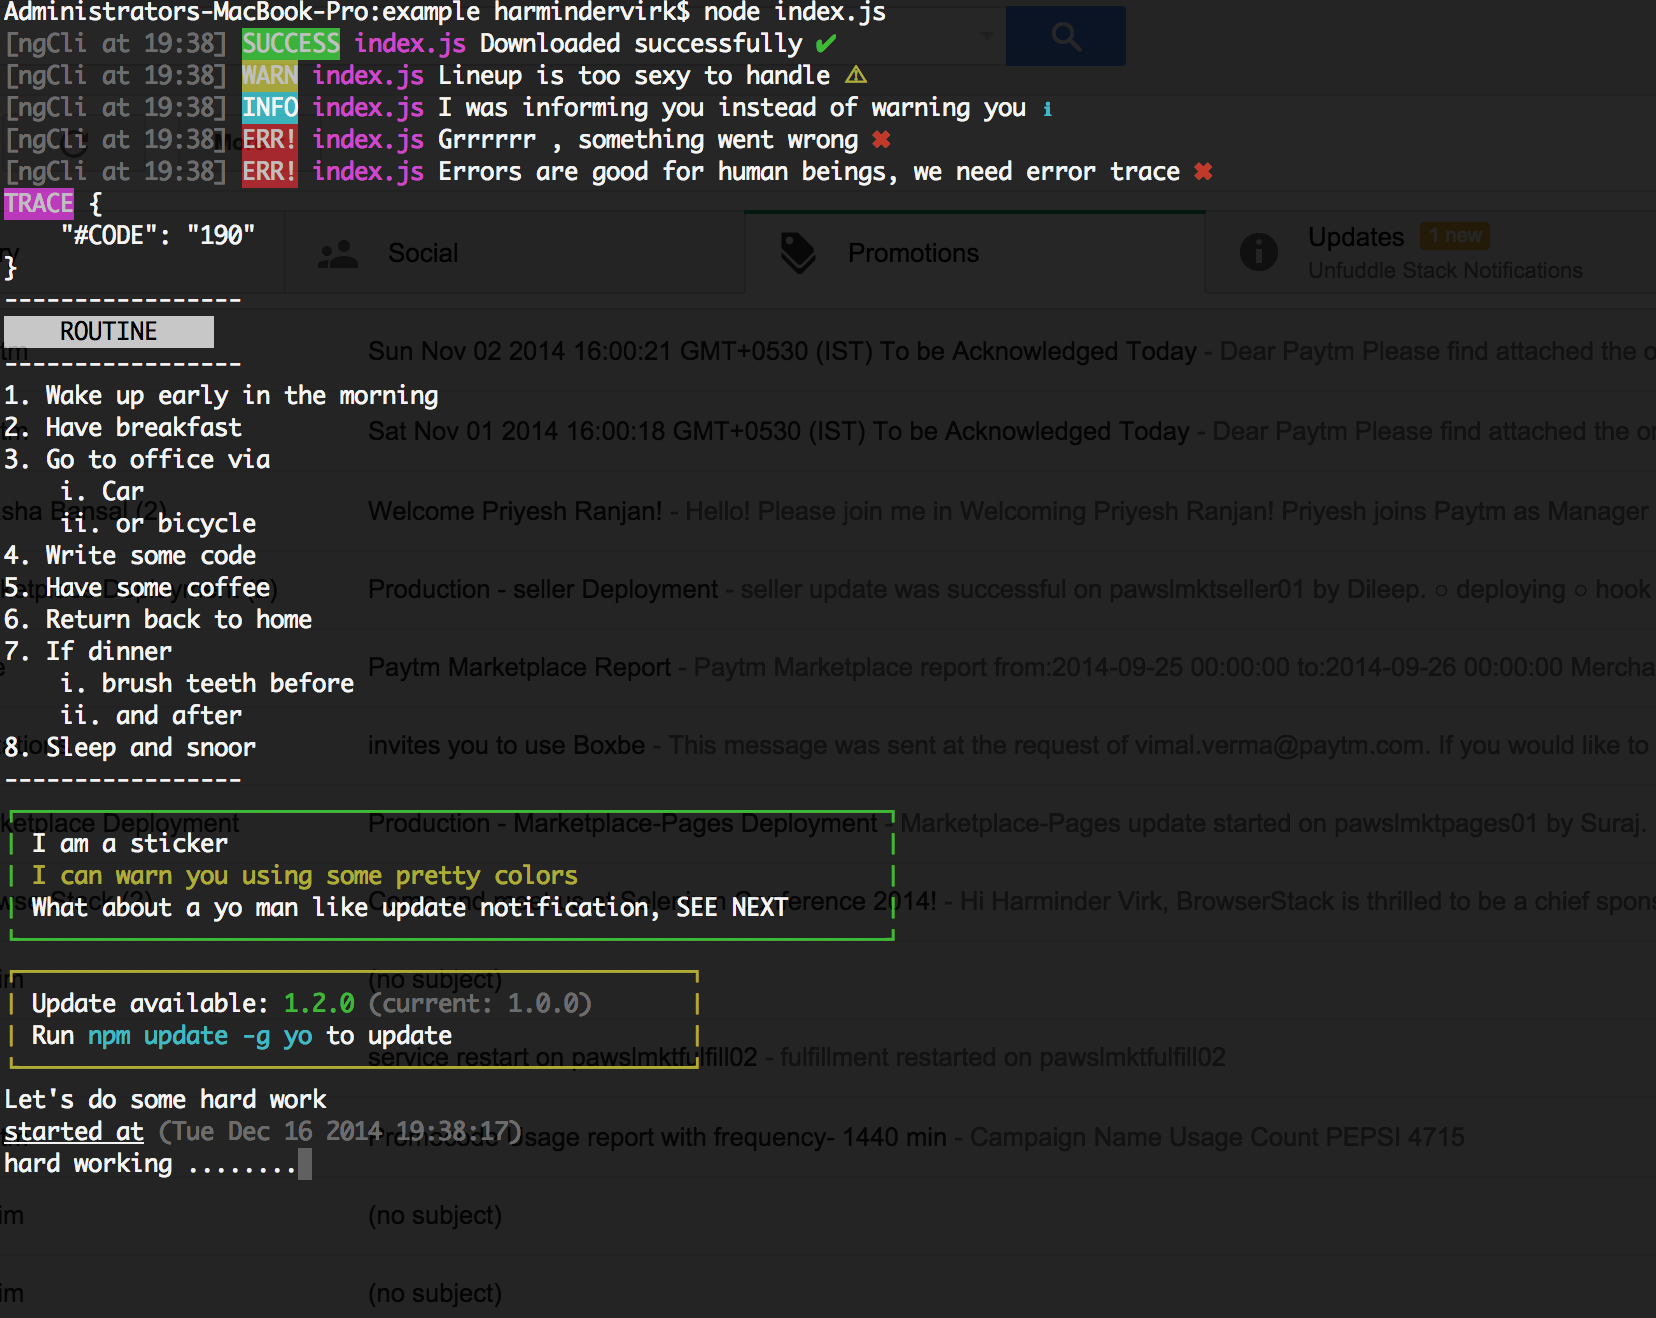
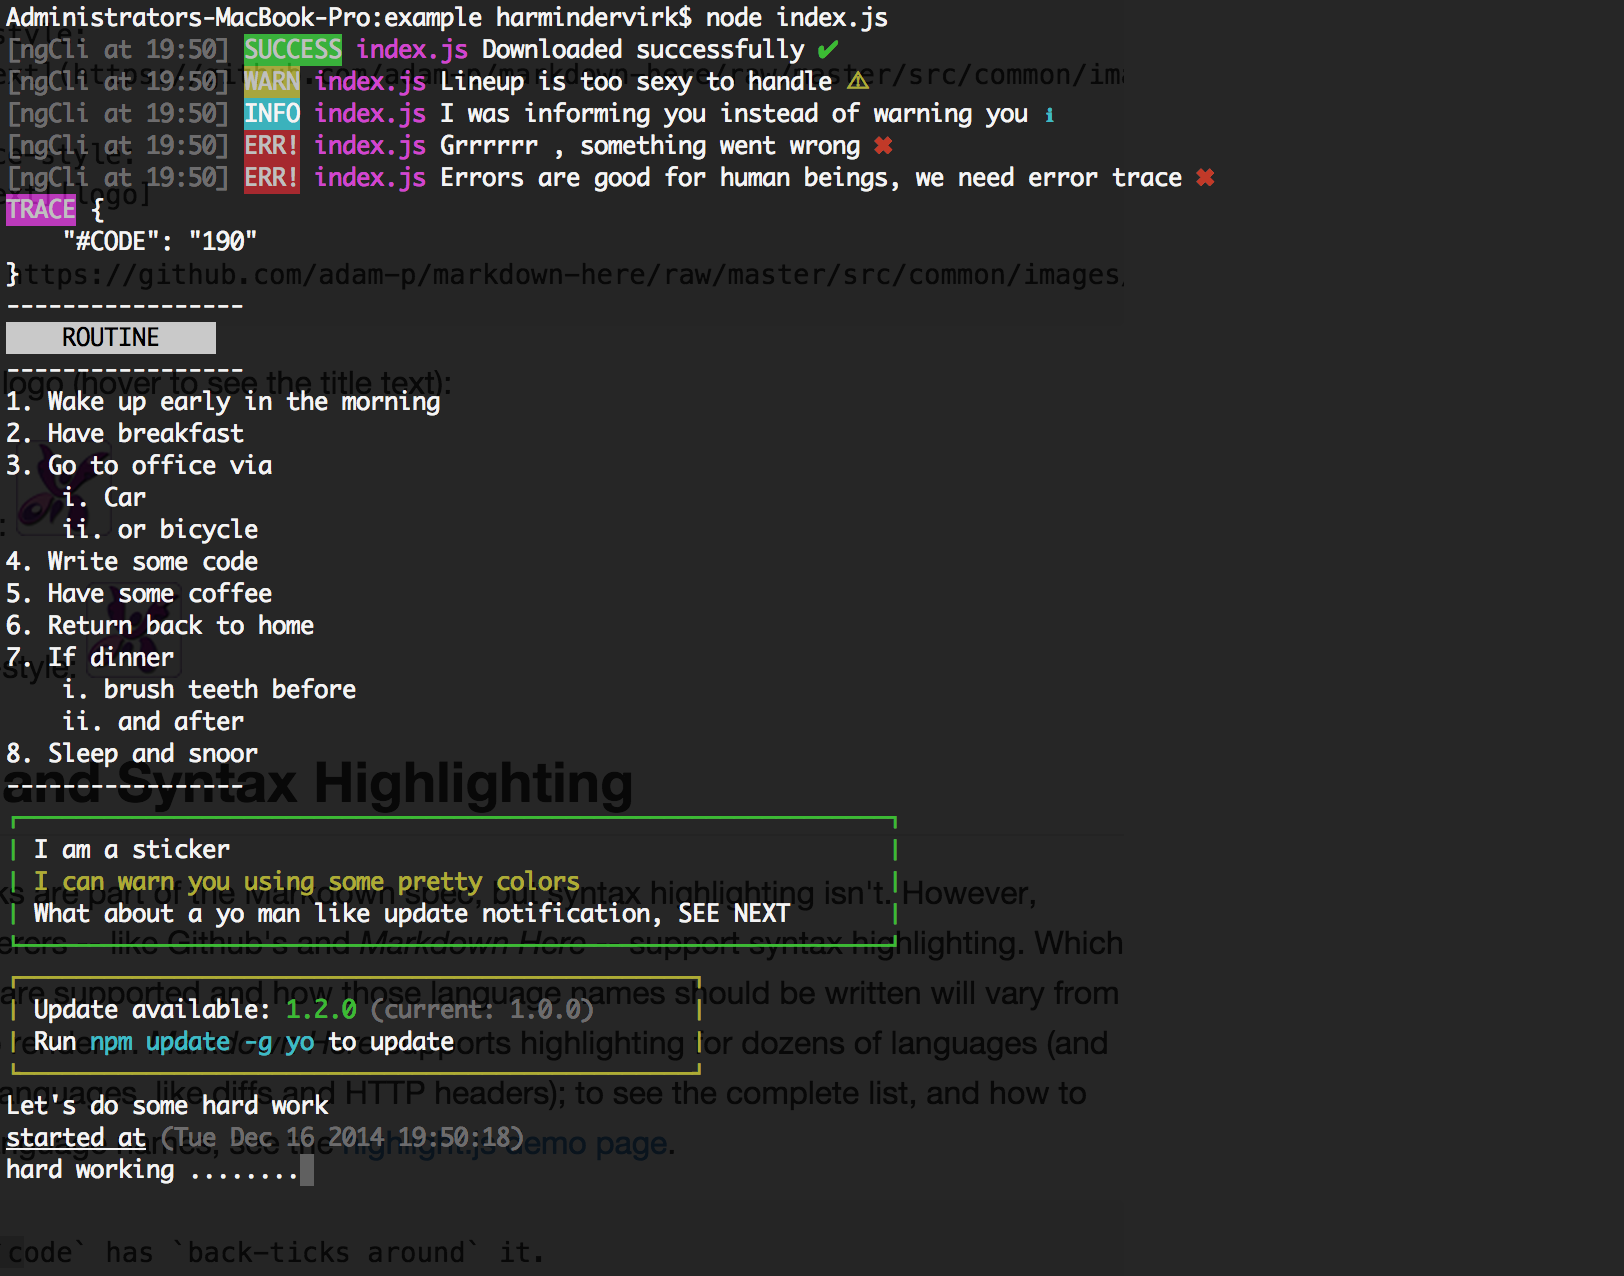
Added partial read me , more docs to come

diff --git a/example/index.js b/example/index.js
@@ -1,9 +1,9 @@
-var Logs = require('../index');
+var Lineup = require('../index');
 var colors = require('colors');
 
 
-options = {
-  'identifier': 'ngCli',
+logger_options = {
+  'identifier': 'gulp',
   'showDateTime': true,
   'filePath': __filename,
   'showIcons': true,
@@ -13,13 +13,13 @@ var trace = {
   "#CODE":"190"
 }
 
-var log = new Logs(options);
-log.log.success('Downloaded successfully');
-log.log.warn('Lineup is too sexy to handle');
-log.log.info('I was informing you instead of warning you');
-log.log.error('Grrrrrr , something went wrong');
+var lineup = new Lineup(logger_options);
+lineup.log.success('Downloaded successfully');
+lineup.log.warn('Lineup is too sexy to handle');
+lineup.log.info('I was informing you instead of warning you');
+lineup.log.error('Grrrrrr , something went wrong');
 
-log.log.error('Errors are good for human beings, we need error trace',{trace:trace});
+lineup.log.error('Errors are good for human beings, we need error trace',{trace:trace});
 
 var daily_routine = [
   'Wake up early in the morning',
@@ -34,16 +34,16 @@ var daily_routine = [
   'Sleep and snoor'
 ]
 
-log.highlight.start('ROUTINE');
-log.print.ol(daily_routine);
-log.highlight.end();
+lineup.highlight.start('ROUTINE');
+lineup.print.ol(daily_routine);
+lineup.highlight.end();
 
 var warn_string = "I can warn you using some pretty colors";
 
-log.sticker.note("I am a sticker");
-log.sticker.note(colors.yellow(warn_string),warn_string);
-log.sticker.note('What about a yo man like update notification, SEE NEXT');
-log.sticker.show({
+lineup.sticker.note("I am a sticker");
+lineup.sticker.note(colors.yellow(warn_string),warn_string);
+lineup.sticker.note('What about a yo man like update notification, SEE NEXT');
+lineup.sticker.show({
   align:'left',
   color: 'green'
 });
@@ -55,16 +55,16 @@ var pre_label = 'Run ';
 var command = 'npm update -g yo'
 var post_label = ' to update';
 
-log.sticker.note(label+colors.green(version)+colors.dim(current_version),label+version+current_version);
-log.sticker.note(pre_label+colors.cyan(command)+post_label,pre_label+command+post_label);
-log.sticker.show({
+lineup.sticker.note(label+colors.green(version)+colors.dim(current_version),label+version+current_version);
+lineup.sticker.note(pre_label+colors.cyan(command)+post_label,pre_label+command+post_label);
+lineup.sticker.show({
   align:'left',
   color: 'yellow'
 });
 
 console.log("Let's do some hard work");
 
-log.progress.start('hard working .....');
+lineup.progress.start('hard working .....');
 setTimeout(function(){
-  log.progress.stop();
+  lineup.progress.stop();
 },5000);

diff --git a/readme.md b/readme.md
@@ -1,3 +1,86 @@
-## Lineup
+!["Screen Shot"](./screenshot.png)
 
-!["Screen Shot"]("./screenshot.png")
+Take cares of all tedious tasks you have to do while writing cli app/tools.
+
+Table of Contents
+
+* Getting Started
+* Objects List
+* API
+* Examples
+
+## Getting Started
+
+### Install
+
+```
+npm install lineup
+```
+
+### Initiating
+
+```javascript
+var LineUp = require('lineup');
+var lineup = new LineUp()
+
+/*
+  ----------------------------
+        OR WITH OPTIONS
+  ---------------------------
+*/
+
+logger_options = {
+  'identifier': 'npm', // just for example
+  'showDateTime': true,
+  'filePath': __filename,
+  'showIcons': true,
+  'dateTimeFormat': 'HH:MM'
+}
+
+var lineup = new LineUp(logger_options)
+
+```
+
+* **identifier** get's prepended with every log command you run [npm] "your log"
+
+* **showDateTime** if true will concatenate identifier
+
+* **filePath** if you want to show from which file log has been generated.
+
+* **showIcons** may be you like graphics
+
+* **dateTimeFormat** time format for above date
+
+> Above options only work with the logger object
+
+### Objects List
+
+Above i mentioned something about logger object, now let's have a look at available objects and their methods.
+
+* **log** to log messages to console
+  * **success**: output a success message
+  * **error** : output error message and exit process
+  * **warn** : output warning
+  * **info** : inform user
+
+
+* **highlight** creates a highlighter section
+  * **start** starts highlighter section
+  * **end** end higlighter section
+
+
+* **print** print list items using array and object ( values only )
+  * **ol** prints ordered list
+  * **li** prints unordered list
+
+
+* **progress** creates a minimal progress ticker
+  * **start** start new progress ticker
+  * **stop** stop above started progress ticker and shows time elapsed.
+
+* **sticker** creates a bordered sticker
+  * **note** add new note to be shown inside sticker [can have multiple]**
+  * **show** show above added sticker notes
+
+
+### See examples/index.js for list of all example
